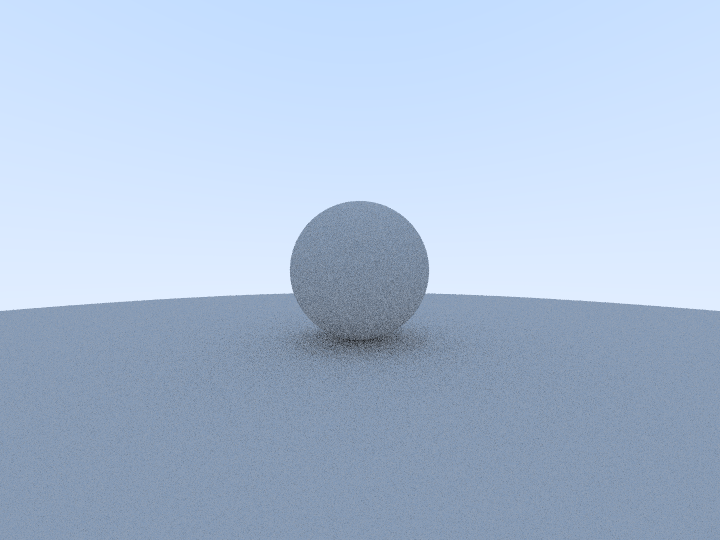
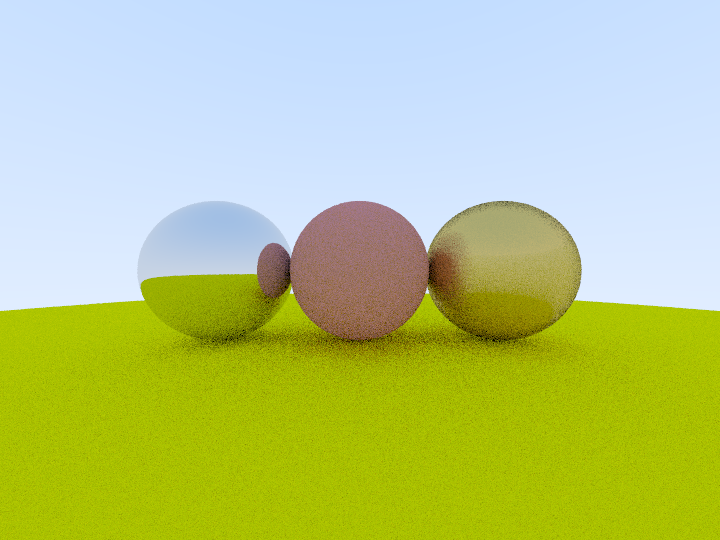
[ADD] 1. add Metal material; 2. add fuzzy attribute to Metal;

diff --git a/engine/rrt/RrtTest.cpp b/engine/rrt/RrtTest.cpp
@@ -16,9 +16,12 @@
 #include "RrtTest.h"
 #include "RrtCamera.h"
 #include "Ray.h"
+
 #include "Sphere.h"
 #include "HittableList.h"
-#include "Matl.h"
+
+#include "LambDiffuse.h"
+#include "Metal.h"
 
 #include "GfxLib.h"
 
@@ -79,16 +82,31 @@ void RrtTest::main()
 
 void RrtTest::draw(const RrtCamera& camera, int width, int height, int channel, uint8_t* data)
 {
-	glm::vec3 startColor{ 1.f }, endColor{0.5f, 0.7f, 1.f};
-
 	HittableList world;
-	std::shared_ptr<Hittable> sphere0 = std::make_shared<Sphere>(glm::vec3(0.f, 0.f, -2.f), 0.5f);
-	std::shared_ptr<Hittable> sphere1 = std::make_shared<Sphere>(glm::vec3(0.f, -100.5f, -2.f), 100.f);
+	std::shared_ptr<Hittable> sphereCenter = std::make_shared<Sphere>(glm::vec3(0.f, 0.f, -2.f), 0.5f);
+	std::shared_ptr<Matl> centerMatl = std::make_shared<LambDiffuse>(glm::vec3(0.7f, 0.3f, 0.3f));
+	sphereCenter->setMatl(centerMatl);
 
-	world.add(sphere0);
-	world.add(sphere1);
+	std::shared_ptr<Hittable> sphereLeft = std::make_shared<Sphere>(glm::vec3(-1.f, 0.f, -2.f), 0.5f);
+	std::shared_ptr<Matl> leftMatl = std::make_shared<Metal>(glm::vec3(0.8f, 0.8f, 0.8f));
+	sphereLeft->setMatl(leftMatl);
+
+	std::shared_ptr<Hittable> sphereRight = std::make_shared<Sphere>(glm::vec3(1.f, 0.f, -2.f), 0.5f);
+	std::shared_ptr<Matl> rightMatl = std::make_shared<Metal>(glm::vec3(0.8f, 0.6f, 0.2f));
+	static_cast<Metal*>(rightMatl.get())->setFluzzy(0.5f);
+	sphereRight->setMatl(rightMatl);
+
+	std::shared_ptr<Hittable> sphereGround = std::make_shared<Sphere>(glm::vec3(0.f, -100.5f, -2.f), 100.f);
+	std::shared_ptr<Matl> groundMatl = std::make_shared<LambDiffuse>(glm::vec3(0.8f, 0.8f, 0.f));
+	sphereGround->setMatl(groundMatl);
+
+	world.add(sphereCenter);
+	world.add(sphereLeft);
+	world.add(sphereRight);
+	world.add(sphereGround);
 
 	const int sampleCnt = 10;
+	const int reflectCnt = 5;
 
 	int outputRow, outputCol;
 	float u, v;
@@ -109,7 +127,7 @@ void RrtTest::draw(const RrtCamera& camera, int width, int height, int channel, 
 				u = (col + GfxLib::random()) / float(width - 1);
 				v = (row + GfxLib::random()) / float(height - 1);
 				Ray ray = camera.getRay(u, v);
-				glm::vec3 ret = rayColor(ray, world, 10);
+				glm::vec3 ret = rayColor(ray, world, reflectCnt);
 				sampleColor = sampleColor + ret * scale;
 			}
 
@@ -130,15 +148,14 @@ glm::vec3 RrtTest::rayColor(const Ray& ray, const HittableList& objList, int ref
 
 	HitRecord rec;
 	// use 0.001 instead of 0.f to fix shadow acne
-	objList.hit(ray, 0.001f, FLT_MAX, rec);
-
-	if (rec.hit && rec.hitInd >= 0)
+	if (objList.hit(ray, 0.001f, FLT_MAX, rec) && rec.hitInd >= 0)
 	{
 		Ray scatterRay;
-		glm::vec3 attenu{1.f};
-		
+		glm::vec3 attenu{ 1.f };
+
 		std::shared_ptr<Matl> mat = objList.at(rec.hitInd)->getMatl();
-		mat->scatter(ray, rec, attenu, scatterRay);
+		if (!mat->scatter(ray, rec, attenu, scatterRay))
+			return glm::vec3(0.f);
 
 		glm::vec3 retColor = rayColor(scatterRay, objList, --reflectDepth);
 		return attenu * retColor;

diff --git a/engine/rrt/obj/Sphere.cpp b/engine/rrt/obj/Sphere.cpp
@@ -1,6 +1,7 @@
 #include "Sphere.h"
 #include "Ray.h"
 #include "LambDiffuse.h"
+#include "Metal.h"
 
 #include "GfxLib.h"
 
@@ -23,7 +24,7 @@ Sphere::Sphere(const glm::vec3& center, const float radius) : Hittable(), m_cent
 
 Sphere::~Sphere() = default;
 
-void Sphere::hit(const Ray& ray, float tMin, float tMax, HitRecord& record) const
+bool Sphere::hit(const Ray& ray, float tMin, float tMax, HitRecord& record) const
 {
     glm::vec3 oc = ray.origin() - m_center;
     float a = glm::dot(ray.direction(), ray.direction());
@@ -33,7 +34,8 @@ void Sphere::hit(const Ray& ray, float tMin, float tMax, HitRecord& record) cons
     if (discriminant < 0.f)
     {
         record.hit = false;
-        return;
+        record.hitInd = -1;
+        return false;
     }
     
     // select the smaller result at first
@@ -44,7 +46,8 @@ void Sphere::hit(const Ray& ray, float tMin, float tMax, HitRecord& record) cons
         if (root < tMin || root > tMax)
         {
             record.hit = false;
-            return;
+            record.hitInd = -1;
+            return false;
         }
     }
 
@@ -53,4 +56,5 @@ void Sphere::hit(const Ray& ray, float tMin, float tMax, HitRecord& record) cons
     record.pt = ray.at(root);
     // the normal always points outward from the sphere 
     record.n = glm::normalize(record.pt - m_center);
+    return true;
 }

diff --git a/engine/rrt/material/Metal.cpp b/engine/rrt/material/Metal.cpp
@@ -1,0 +1,39 @@
+#include <cassert>
+
+#include "Metal.h"
+#include "Ray.h"
+#include "Hittable.h"
+
+#include "GfxLib.h"
+
+#include "Logger.h"
+#ifdef LOCAL_TAG
+#undef LOCAL_TAG
+#endif
+#define LOCAL_TAG "Metal"
+
+Metal::Metal(const glm::vec3& color) : Matl(color), m_fuzzy(0.f) {}
+
+Metal::~Metal() = default;
+
+glm::vec3 Metal::reflect(const glm::vec3& rayIn, const glm::vec3& n) const
+{
+	float b = -dot(rayIn, n);
+	glm::vec3 refDir = rayIn + 2 * b * n;
+	return glm::normalize(refDir);
+}
+
+bool Metal::scatter(const Ray& input, const HitRecord& rec, glm::vec3& attenuation, Ray& scatterRay) const
+{
+	glm::vec3 refDir = reflect(input.direction(), rec.n);
+
+	scatterRay.setOrigin(rec.pt);
+	scatterRay.setDirection(refDir + m_fuzzy * GfxLib::randomOnUnitSphere());
+	attenuation = m_albedo;
+	return (glm::dot(scatterRay.direction(), rec.n) > 0.f);
+}
+
+void Metal::setFluzzy(float fuzzy)
+{
+	m_fuzzy = GfxLib::clamp(fuzzy, 0.f, 1.f);
+}

diff --git a/engine/rrt/material/include/Metal.h b/engine/rrt/material/include/Metal.h
@@ -1,0 +1,26 @@
+#ifndef METAL_H
+#define METAL_H
+
+#include "Matl.h"
+
+class Metal : public Matl
+{
+public:
+	Metal(const glm::vec3& color = glm::vec3(0.5f));
+	virtual ~Metal();
+
+	virtual bool scatter(const Ray& input, const HitRecord& rec, glm::vec3& attenuation, Ray& scatterRay) const override;
+
+	void setFluzzy(float fuzzy);
+
+private:
+	// param rayIn means the input ray's direction.
+	// param n is the normal of intersection surface.
+	glm::vec3 reflect(const glm::vec3 &rayIn, const glm::vec3 &n) const;
+
+	// a perturbation to make specular reflection blur
+	// m_fuzzy ranges [0, 1],  when val is 0, there is no blur, while val is 1.f, the blur is fullest.
+	float m_fuzzy;
+};
+
+#endif

diff --git a/engine/rrt/material/include/Matl.h b/engine/rrt/material/include/Matl.h
@@ -9,10 +9,18 @@ struct HitRecord;
 class Matl
 {
 public:
-	Matl() {}
+	Matl(const glm::vec3 &color = glm::vec3(0.5f)) : m_albedo(color) {}
 	virtual ~Matl() = default;
 
+	inline void setColor(float r, float g, float b) { m_albedo = glm::vec3(r, g, b); }
+
 	virtual bool scatter(const Ray &input, const HitRecord &rec, glm::vec3 &attenuation, Ray &scatterRay) const = 0;
+
+protected:
+	// m_albedo = radiosity / irradiance
+	// radiosity is the amount of light the meterial reflects per area
+	// irradiance is the amount of light the meterial absorbs per area
+	glm::vec3 m_albedo;
 };
 
 #endif

diff --git a/engine/rrt/obj/HittableList.cpp b/engine/rrt/obj/HittableList.cpp
@@ -34,10 +34,11 @@ const std::shared_ptr<Hittable>& HittableList::at(int index) const
 	return m_list[index];
 }
 
-void HittableList::hit(const Ray& ray, float tMin, float tMax, HitRecord& record) const
+bool HittableList::hit(const Ray& ray, float tMin, float tMax, HitRecord& record) const
 {
 	float closest = tMax;
 	HitRecord tmpRec;
+	record = tmpRec;
 
 	for (int i = 0; i < m_list.size(); ++i)
 	{
@@ -50,4 +51,5 @@ void HittableList::hit(const Ray& ray, float tMin, float tMax, HitRecord& record
 			record.hitInd = i;
 		}
 	}
+	return record.hit;
 }

diff --git a/engine/rrt/material/include/LambDiffuse.h b/engine/rrt/material/include/LambDiffuse.h
@@ -7,16 +7,10 @@
 class LambDiffuse : public Matl
 {
 public:
-	LambDiffuse(const glm::vec3 &albedo = glm::vec3(0.5f));
+	LambDiffuse(const glm::vec3& color = glm::vec3(0.5f));
 	virtual ~LambDiffuse();
 
 	virtual bool scatter(const Ray& input, const HitRecord& rec, glm::vec3& attenuation, Ray& scatterRay) const override;
-
-private:
-	// m_albedo = radiosity / irradiance
-	// radiosity is the amount of light the meterial reflects per area
-	// irradiance is the amount of light the meterial absorbs per area
-	glm::vec3 m_albedo;
 };
 
 #endif

diff --git a/engine/rrt/obj/include/Hittable.h b/engine/rrt/obj/include/Hittable.h
@@ -26,8 +26,9 @@ public:
 	virtual ~Hittable() { m_matl.reset(); }
 
 	inline const std::shared_ptr<Matl>& getMatl() const { return m_matl; };
+	inline void setMatl(const std::shared_ptr<Matl>& matl) { m_matl = matl; }
 
-	virtual void hit(const Ray &ray, float tMin, float tMax, HitRecord &record) const = 0;
+	virtual bool hit(const Ray &ray, float tMin, float tMax, HitRecord &record) const = 0;
 
 protected:
 	std::shared_ptr<Matl> m_matl;

diff --git a/engine/rrt/obj/include/HittableList.h b/engine/rrt/obj/include/HittableList.h
@@ -17,7 +17,7 @@ public:
 
 	const std::shared_ptr<Hittable>& at(int index) const;
 
-	virtual void hit(const Ray& ray, float tMin, float tMax, HitRecord& record) const override;
+	virtual bool hit(const Ray& ray, float tMin, float tMax, HitRecord& record) const override;
 
 private:
 	std::vector<std::shared_ptr<Hittable>> m_list;

diff --git a/engine/rrt/obj/include/Sphere.h b/engine/rrt/obj/include/Sphere.h
@@ -12,7 +12,7 @@ public:
 	Sphere(const glm::vec3 & center, const float radius);
 	virtual ~Sphere();
 
-	virtual void hit(const Ray& ray, float tMin, float tMax, HitRecord& record) const override;
+	virtual bool hit(const Ray& ray, float tMin, float tMax, HitRecord& record) const override;
 
 private:
 	glm::vec3 m_center;

diff --git a/engine/rrt/material/LambDiffuse.cpp b/engine/rrt/material/LambDiffuse.cpp
@@ -11,7 +11,7 @@
 #endif
 #define LOCAL_TAG "Diffuse"
 
-LambDiffuse::LambDiffuse(const glm::vec3& albedo) : Matl(), m_albedo(albedo) {}
+LambDiffuse::LambDiffuse(const glm::vec3& color) : Matl(color) {}
 
 LambDiffuse::~LambDiffuse() = default;
 
